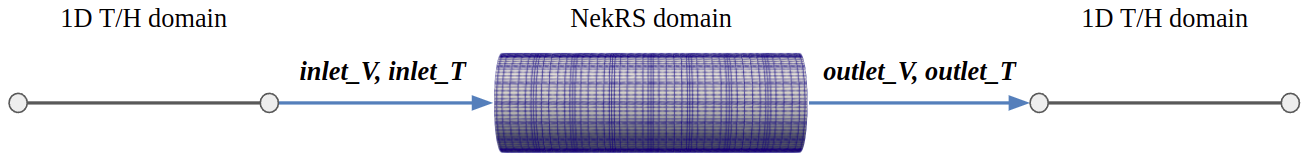
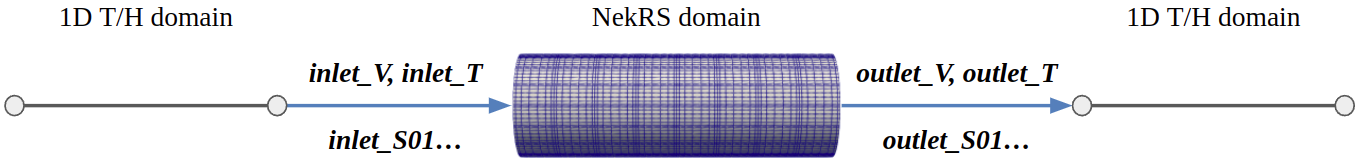
Add scalar transfers to docs

diff --git a/doc/content/source/problems/NekRSSeparateDomainProblem.md b/doc/content/source/problems/NekRSSeparateDomainProblem.md
@@ -1,33 +1,51 @@
 # NekRSSeparateDomainProblem
 
-This class allows for coupling of NekRS to a 1D T/H code such as SAM or THM. This coupling is performed using the "separate-domain" coupling strategy, where the coupling between codes is performed purely by
-updating boundary conditions between the domains. For most applications where there's a large flow loop, the 1D T/H code should model most of the loop, and NekRS should model only a portion of the loop that is of interest for CFD simulation.
+This class allows for coupling of NekRS to a 1D T/H code such as SAM or THM.
+This coupling is performed using the "separate-domain" coupling strategy,
+where the coupling between codes is performed purely by
+updating boundary conditions between the domains. For most applications where there's a large flow loop,
+ the 1D T/H code should model most of the loop, and NekRS should model only a portion of the loop that
+ is of interest for CFD simulation.
 
-The coupling's setup is controlled using the `coupling_type`, which provides information for how the NekRS is coupled to the 1D T/H code, via NekRS's `inlet`, `outlet`, or `inlet outlet`.
+The coupling's setup is controlled using the `coupling_type`, which provides information for how the
+ NekRS is coupled to the 1D T/H code, via NekRS's `inlet`, `outlet`, or `inlet outlet`.
 
 !alert warning
 This class currently only supports dimensional solutions coming from NekRS. Nondimensional support is in progress.
 
-### Velocity and temperature coupling
+### Velocity, temperature, and scalar coupling
 
-[inlet_outlet] shows the coupling of velocity and temperature for `coupling_type = inlet outlet`, where the 1D T/H code is coupled to NekRS's inlet and outlet boundaries.
+[inlet_outlet] shows the coupling of velocity (V), temperature (T), and scalar01 (S01)
+ for `coupling_type = inlet outlet`, where the 1D T/H code is coupled to NekRS's inlet and outlet boundaries.
+
+Scalar coupling is allowed for up to 3 scalars (scalar01, scalar02, and scalar03) using the optional `coupled_scalars` parameter.
+ Coupling scalars is useful when running a 1D T/H coupled to a NekRS RANS k-tau simulation with
+ coupled passive scalar transport. For such a case, NekRS may use k and tau as scalar01 and scalar02, respectively,
+ and the coupled passive scalar as scalar03. For coupling just scalar03, one would set `coupled_scalars = scalar03`.
 
 !media NekRSSeparateDomainProblem_inletoutlet.png
   id=inlet_outlet
-  caption=Example velocity and temperature transfers for 'inlet outlet' coupling.
+  caption=Example boundary transfers for 'inlet outlet' coupling.
   style=width:100%;margin-left:auto;margin-right:auto;halign:center
 
-`inlet_V` and `inlet_T` are both single values passed from the 1D T/H domain to the NekRS inlet boundary given by `inlet_boundary`. For information on implementing these transferred values, refer to [this section](#using-transferred-data-to-inform-nekrs-inlet-boundary-conditions) of the documentation.
+All `inlet_XX` are single values passed from the 1D T/H domain to the NekRS inlet boundary provided by
+ `inlet_boundary`. For information on implementing these transferred values,
+ refer to [this section](#using-transferred-data-to-inform-nekrs-inlet-boundary-conditions) of the documentation.
 
-`outlet_V` and `outlet_T` are automated [NekSideAverage](/postprocessors/NekSideAverage.md) postProcessors that are created on the NekRS boundary ID given by `outlet_boundary`.
-These postProcessors can then be transferred to the 1D T/H code using the [MultiAppPostprocessorTransfer](https://mooseframework.inl.gov/source/transfers/MultiAppPostprocessorTransfer.html)
+All `outlet_XX` values are automated [NekSideAverage](/postprocessors/NekSideAverage.md) postProcessors
+ that are created on the NekRS boundary ID given by `outlet_boundary`.
+These postProcessors can then be transferred to the 1D T/H code using the
+ [MultiAppPostprocessorTransfer](https://mooseframework.inl.gov/source/transfers/MultiAppPostprocessorTransfer.html)
 system.
 
 ### Pressure coupling
 
-Pressure information is transferred between NekRS and the 1D T/H code using a global pressure drop because the 1D T/H code only needs the overall pressure drop over the NekRS domain.
-`inlet_P` and `outlet_P` [NekSideAverage](/postprocessors/NekSideAverage.md) postProcessors are created along with the pressure drop `dP` postProcessor.
-[dP] shows this process, which is performed no matter what `coupling_type` is given.`dP` can be transferred to the 1D T/H code using the [MultiAppPostprocessorTransfer](https://mooseframework.inl.gov/source/transfers/MultiAppPostprocessorTransfer.html) system.
+Pressure information is transferred between NekRS and the 1D T/H code using a global pressure drop because
+ the 1D T/H code only needs the overall pressure drop over the NekRS domain.
+`inlet_P` and `outlet_P` [NekSideAverage](/postprocessors/NekSideAverage.md) postProcessors are created along
+ with the pressure drop `dP` postProcessor.
+[dP] shows this process, which is performed no matter what `coupling_type` is given. `dP` can be transferred
+ to the 1D T/H code using the [MultiAppPostprocessorTransfer](https://mooseframework.inl.gov/source/transfers/MultiAppPostprocessorTransfer.html) system.
 
 
 !media NekRSSeparateDomainProblem_dP.png
@@ -37,18 +55,26 @@ Pressure information is transferred between NekRS and the 1D T/H code using a gl
 
 ## Transferring data between NekRS and the 1D T/H code
 
-A summary of postProcessors generated is shown in the following table. The creation of these postProcessors depends on (1) the `coupling_type` given and (2) whether or not NekRS is solving for temperature.
+A summary of postProcessors generated is shown in the following table for velocity, temperature, and scalar01 coupling.
+ PostProcessors for scalar02 and scalar03 coupling follow the same pattern as scalar01.
+The postProcessor created depends on (1) the `coupling_type` given, (2) whether or not NekRS is solving for temperature
+ and (3) the optional `coupling_scalars` provided.
 
-| postProcessor created | inlet | outlet | inlet outlet |
+| postProcessor created | `coupling_type = inlet` | `coupling_type = outlet` | `coupling_type = inlet outlet` |
 | - | - | - | - |
 | dP | $\checkmark$ | $\checkmark$ | $\checkmark$ |
 | inlet_V | $\checkmark$ | &nbsp; | $\checkmark$ |
 | outlet_V | &nbsp; | $\checkmark$ | $\checkmark$ |
 | inlet_T | $\checkmark$, if temperature solved | &nbsp; | $\checkmark$, if temperature solved |
 | outlet_T | &nbsp; | $\checkmark$, if temperature solved | $\checkmark$, if temperature solved |
+| inlet_S01 | $\checkmark$, if scalar01 in `coupled_scalars` | &nbsp; | $\checkmark$, if scalar01 in `coupled_scalars` |
+| outlet_S01 | &nbsp; | $\checkmark$, if scalar01 in `coupled_scalars` | $\checkmark$, if scalar01 in `coupled_scalars` |
 
 
-Example MultiApp transfers are shown below for `coupling_type = 'inlet outlet'` with transfers between the NekRS MainApp and the `1D_TH_code` SubApp. These transfers include all possible postProcessors created.
+
+Example MultiApp transfers for velocity, temperature and scalar01 coupling are shown below for
+ `coupling_type = 'inlet outlet'` and `coupled_scalars = 'scalar01'`. These transfers assume NekRS
+ is acting as the MainApp and the `1D_TH_code` as the SubApp.
 
 ```
 [Transfers]
@@ -58,6 +84,30 @@ Example MultiApp transfers are shown below for `coupling_type = 'inlet outlet'` 
     direction = to_multiapp
     from_postprocessor = dP
     to_postprocessor   = fromNekRS_pressureDrop
+  []
+  [inlet_V_transfer]
+    type = MultiAppPostprocessorTransfer
+    multi_app = 1D_TH_code
+    direction = from_multiapp
+    reduction_type = average
+    from_postprocessor = toNekRS_velocity
+    to_postprocessor   = inlet_V
+  []
+  [inlet_T_transfer]
+    type = MultiAppPostprocessorTransfer
+    multi_app = 1D_TH_code
+    direction = from_multiapp
+    reduction_type = average
+    from_postprocessor = toNekRS_temperature
+    to_postprocessor   = inlet_T
+  []
+  [inlet_S01_transfer]
+    type = MultiAppPostprocessorTransfer
+    multi_app = 1D_TH_code
+    direction = from_multiapp
+    reduction_type = average
+    from_postprocessor = toNekRS_scalar01
+    to_postprocessor   = inlet_S01
   []
   [outlet_V_transfer]
     type = MultiAppPostprocessorTransfer
@@ -73,31 +123,25 @@ Example MultiApp transfers are shown below for `coupling_type = 'inlet outlet'` 
     from_postprocessor = outlet_T
     to_postprocessor   = fromNekRS_temperature
   []
-  [inlet_V_transfer]
+  [outlet_S01_transfer]
     type = MultiAppPostprocessorTransfer
     multi_app = 1D_TH_code
-    direction = from_multiapp
-    reduction_type = average
-    from_postprocessor = toNekRS_velocity
-    to_postprocessor   = inlet_V
-  []
-  [oulet_V_transfer]
-    type = MultiAppPostprocessorTransfer
-    multi_app = 1D_TH_code
-    direction = from_multiapp
-    reduction_type = average
-    from_postprocessor = toNekRS_temperature
-    to_postprocessor   = inlet_T
+    direction = to_multiapp
+    from_postprocessor = outlet_S01
+    to_postprocessor   = fromNekRS_scalar01
   []
 []
 ```
 
 ## Using transferred data for NekRS inlet boundary conditions
 
-All transferred velocity and temperature information can be accessed and implemented from within the NekRS simulation's `.oudf` file using the following syntax:
+All transferred velocity, temperature, and scalar information can be accessed and implemented from within the NekRS simulation's `.oudf` file using the following syntax:
 
 - `inlet_V` is accessed via `bc->wrk[bc->idM]`
 - `inlet_T` is accessed via `bc->wrk[bc->idM + bc->fieldOffset]`
+- `inlet_S01` is accessed via `bc->wrk[bc->idM + 2*bc->fieldOffset]`
+- `inlet_S02` is accessed via `bc->wrk[bc->idM + 3*bc->fieldOffset]`
+- `inlet_S03` is accessed via `bc->wrk[bc->idM + 4*bc->fieldOffset]`
 
 This allows the user the freedom to choose what type of profile they want to implement at the inlet boundary, i.e. flat or fully-developed. Below are a few example implementations.
 
@@ -112,12 +156,15 @@ void velocityDirichletConditions(bcData *bc)
 }
 ```
 
-Example for a flat temperature profile:
+Example for a flat temperature and scalar profiles:
 
 ```
 void scalarDirichletConditions(bcData *bc)
 {
-  bc->s  = bc->wrk[bc->idM + bc->fieldOffset];
+  if(bc->scalarId==0) bc->s  = bc->wrk[bc->idM + bc->fieldOffset];   // temperature
+  if(bc->scalarId==1) bc->s  = bc->wrk[bc->idM + 2*bc->fieldOffset]; // scalar01
+  if(bc->scalarId==2) bc->s  = bc->wrk[bc->idM + 3*bc->fieldOffset]; // scalar02
+  if(bc->scalarId==3) bc->s  = bc->wrk[bc->idM + 4*bc->fieldOffset]; // scalar03
 }
 ```
 
